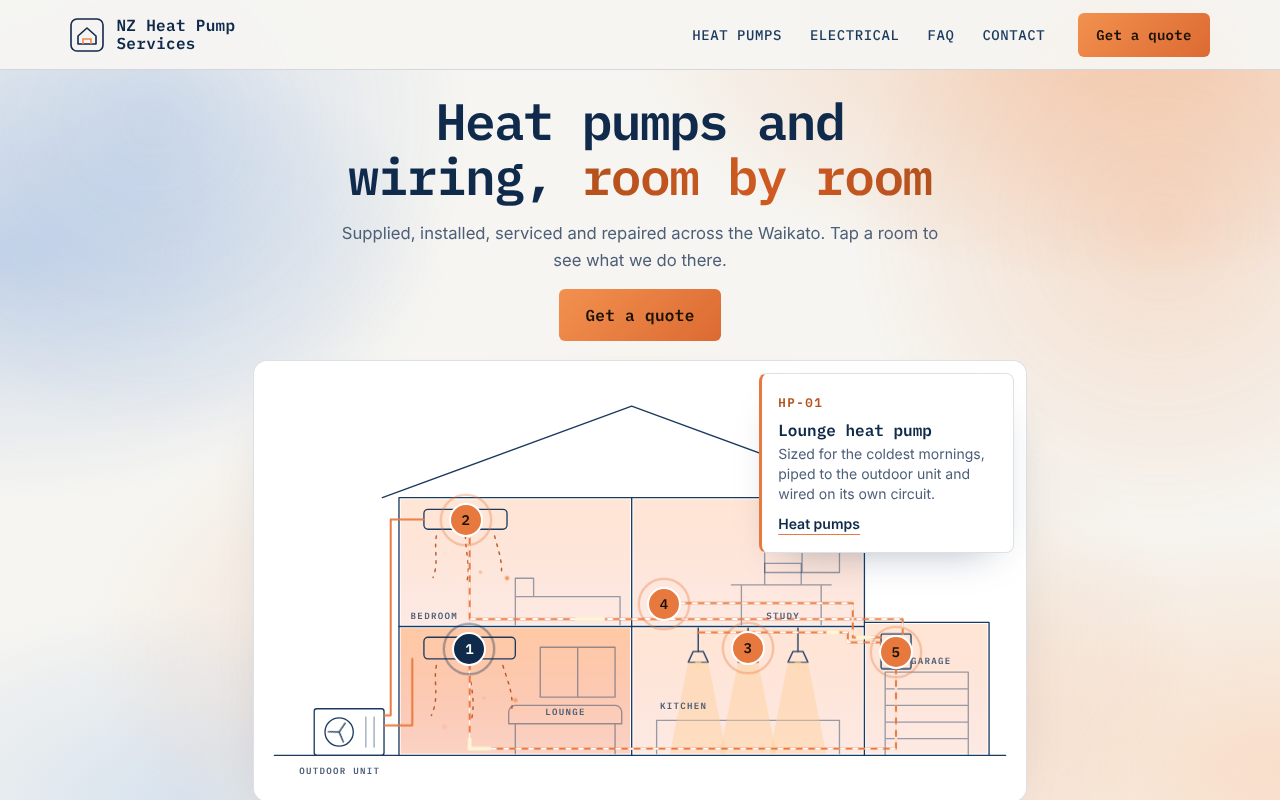
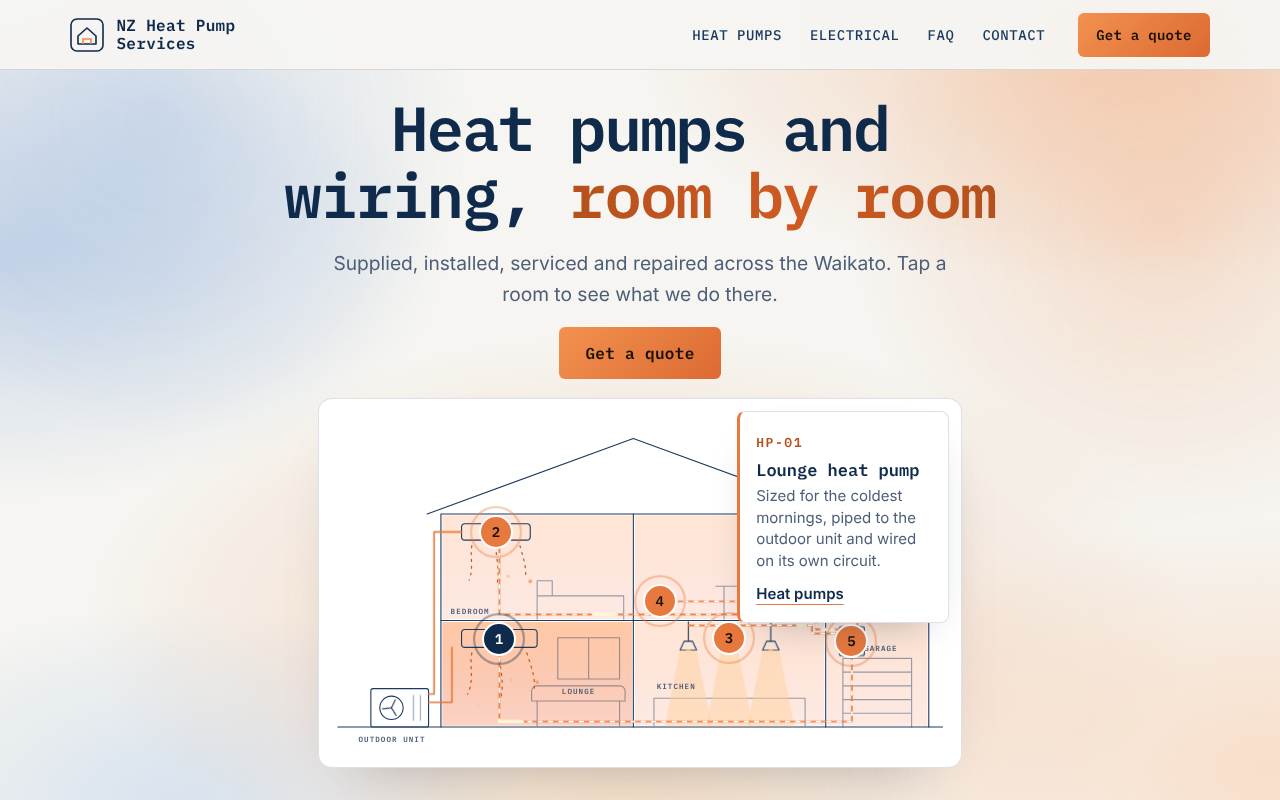
Blueprint: larger, clearer type scale
Body 18px, card, step and callout text 15 to 16.5px, larger section and
hero headings with balanced lines. The house drawing sizes to the space
left so the hero still fits laptop screens.

Claude-Session: https://claude.ai/code/session_01JyjoGFhd642tYoC75pYTfu

Changed region(s): [[0.1875, 0.125, 0.8125, 1.0], [0.1875, 0.4375, 0.2188, 0.4688]]

diff --git a/designs/03-blueprint/index.html b/designs/03-blueprint/index.html
@@ -22,19 +22,19 @@
 }
 *,*::before,*::after{box-sizing:border-box}
 html{scroll-padding-top:calc(var(--hh) + 16px);-webkit-text-size-adjust:100%;color-scheme:light}
-body{margin:0;background:var(--paper);color:var(--ink);font:400 17px/1.6 var(--sans);-webkit-font-smoothing:antialiased}
+body{margin:0;background:var(--paper);color:var(--ink);font:400 18px/1.65 var(--sans);-webkit-font-smoothing:antialiased}
 img,svg{display:block;max-width:100%}
 a{color:inherit}
 p{margin:0 0 1em}
 h1,h2,h3{font-family:var(--mono);font-weight:600;letter-spacing:-.03em;line-height:1.08;margin:0 0 .5em}
-h2{font-size:clamp(30px,3.8vw,50px)}
-h3{font-size:clamp(18px,1.5vw,21px);letter-spacing:-.01em;line-height:1.25}
+h2{font-size:clamp(32px,4.4vw,58px);text-wrap:balance}
+h3{font-size:clamp(19px,1.7vw,23px);letter-spacing:-.01em;line-height:1.25}
 :focus-visible{outline:2px solid var(--warm);outline-offset:3px}
 .wrap{max-width:1220px;margin:0 auto;padding:0 var(--pad)}
 .skip{position:absolute;left:12px;top:-60px;background:#fff;color:#000;padding:12px 16px;z-index:100}
 .skip:focus{top:12px}
-.lede{font-size:clamp(16px,1.3vw,19px);color:var(--muted);max-width:620px;margin:0 auto 1.2em}
-.code{font:600 12.5px/1 var(--mono);letter-spacing:.12em;text-transform:uppercase;color:var(--warm)}
+.lede{font-size:clamp(17.5px,1.5vw,21px);color:var(--muted);max-width:620px;margin:0 auto 1.2em}
+.code{font:600 13px/1 var(--mono);letter-spacing:.12em;text-transform:uppercase;color:var(--warm)}
 [data-need]:not(.has){display:none!important}
 .btn{position:relative;overflow:hidden;display:inline-flex;align-items:center;justify-content:center;min-height:52px;padding:0 26px;border-radius:6px;background:var(--cu);color:var(--cu-ink);font:600 16px/1 var(--mono);letter-spacing:.02em;text-decoration:none;border:0;cursor:pointer}
 .btn::after{content:"";position:absolute;inset:0;background:linear-gradient(100deg,transparent 30%,rgba(255,255,255,.4) 50%,transparent 70%);transform:translateX(-120%);transition:transform 1.1s var(--ease)}
@@ -65,10 +65,10 @@ h3{font-size:clamp(18px,1.5vw,21px);letter-spacing:-.01em;line-height:1.25}
 
 /* hero: the house drawing */
 .hero{min-height:min(100svh,1000px);padding:calc(var(--hh) + clamp(18px,3vh,40px)) 0 30px;text-align:center}
-.hero h1{font-size:clamp(2rem,min(4.2vw,6.4vh),4rem);max-width:22ch;margin:0 auto .3em;text-wrap:balance}
+.hero h1{font-size:clamp(2.35rem,min(5vw,7.8vh),4.6rem);max-width:22ch;margin:0 auto .3em;text-wrap:balance}
 .hero h1 span{color:var(--warm)}
 .hero .lede{margin-bottom:16px}
-.sheet{position:relative;margin:clamp(14px,2.4vh,28px) auto 0;width:min(100%,1080px,calc((100svh - var(--hh) - 300px) * 1.8));border:1px solid var(--line);border-radius:14px;background:var(--card);padding:12px;box-shadow:0 30px 60px -40px rgba(15,42,74,.35)}
+.sheet{position:relative;margin:clamp(14px,2.4vh,28px) auto 0;width:min(100%,1080px,calc((100svh - var(--hh) - 372px) * 1.8));border:1px solid var(--line);border-radius:14px;background:var(--card);padding:12px;box-shadow:0 30px 60px -40px rgba(15,42,74,.35)}
 .sheet svg{width:100%;height:auto}
 .cv{position:relative}
 .dw .l{fill:none;stroke:var(--chalk);stroke-width:1.6;stroke-linecap:round;stroke-linejoin:round}
@@ -100,9 +100,9 @@ h3{font-size:clamp(18px,1.5vw,21px);letter-spacing:-.01em;line-height:1.25}
 @keyframes ping{0%{opacity:.8;transform:scale(.7)}100%{opacity:0;transform:scale(1.5)}}
 .callout{position:absolute;right:12px;top:12px;width:min(300px,33%);text-align:left;background:var(--card);border:1px solid var(--line);border-left:3px solid var(--cu);border-radius:8px;box-shadow:0 18px 40px -24px rgba(15,42,74,.4);padding:14px 16px;opacity:0;transform:translateY(6px);transition:opacity .6s var(--ease),transform .6s var(--ease)}
 .ready .callout{opacity:1;transform:none}
-.callout .co-h{margin:4px 0 4px;font:600 16px/1.25 var(--mono);color:var(--ink)}
-.callout p{margin:0 0 6px;color:var(--muted);font-size:14px;line-height:1.45}
-.callout a{font-size:14px}
+.callout .co-h{margin:4px 0 4px;font:600 17px/1.25 var(--mono);color:var(--ink)}
+.callout p{margin:0 0 6px;color:var(--muted);font-size:15px;line-height:1.45}
+.callout a{font-size:15px}
 @media (max-width:760px){.sheet{width:100%}.callout{position:static;width:auto;margin-top:12px}.hs{width:28px;height:28px;margin:-14px 0 0 -14px;font-size:12px}}
 @media (prefers-reduced-motion:reduce){.hs,.callout{transform:none!important;opacity:1!important}}
 
@@ -118,7 +118,7 @@ h3{font-size:clamp(18px,1.5vw,21px);letter-spacing:-.01em;line-height:1.25}
 .item:nth-child(3n){border-right:0}
 .item:nth-last-child(-n+3){border-bottom:0}
 .item .code{display:inline-block;padding:6px 9px;border:1px solid rgba(255,176,112,.45);border-radius:4px;margin-bottom:14px}
-.item p{color:var(--muted);margin:0 auto 12px;max-width:30ch;font-size:15.5px}
+.item p{color:var(--muted);margin:0 auto 12px;max-width:32ch;font-size:16.5px}
 @media (max-width:900px){.sched{grid-template-columns:1fr 1fr}.item:nth-child(3n){border-right:1px solid var(--line)}.item:nth-child(2n){border-right:0}.item:nth-last-child(-n+3){border-bottom:1px solid var(--line)}.item:nth-last-child(-n+2){border-bottom:0}}
 @media (max-width:600px){.sched{grid-template-columns:1fr}.item{border-right:0!important;border-bottom:1px solid var(--line)!important}.item:last-child{border-bottom:0!important}}
 
@@ -141,7 +141,7 @@ h3{font-size:clamp(18px,1.5vw,21px);letter-spacing:-.01em;line-height:1.25}
 .gauge{width:min(240px,80%);margin:0 0 14px}
 #arc{transition:stroke-dashoffset 1.2s var(--ease)}
 #needle{transform-origin:120px 120px;transition:transform 1.2s var(--ease)}
-.out p{color:var(--muted);font-size:15px;max-width:34ch}
+.out p{color:var(--muted);font-size:16.5px;max-width:34ch}
 @media (max-width:860px){.sizer{grid-template-columns:1fr}.sz{border-right:0;border-bottom:1px solid var(--line)}}
 
 .steps{list-style:none;padding:0;margin:0 auto;max-width:1060px;display:grid;grid-template-columns:repeat(4,1fr);gap:0;counter-reset:s;position:relative}
@@ -149,7 +149,7 @@ h3{font-size:clamp(18px,1.5vw,21px);letter-spacing:-.01em;line-height:1.25}
 .steps.in::before{transform:none}
 .steps li{text-align:center;padding:0 14px}
 .steps .n{position:relative;z-index:1;width:68px;height:68px;margin:0 auto 18px;border-radius:50%;border:2px solid var(--ink);background:var(--paper);display:grid;place-items:center;font:600 20px var(--mono)}
-.steps li p{color:var(--muted);font-size:15px;margin:0}
+.steps li p{color:var(--muted);font-size:16.5px;margin:0}
 @media (max-width:900px){.steps{grid-template-columns:1fr 1fr;row-gap:36px}.steps::before{display:none}}
 @media (max-width:560px){.steps{grid-template-columns:1fr}}
 
@@ -184,14 +184,14 @@ h3{font-size:clamp(18px,1.5vw,21px);letter-spacing:-.01em;line-height:1.25}
 
 .cta{text-align:center;padding:clamp(80px,10vw,130px) var(--pad);background:linear-gradient(180deg,transparent,rgba(240,138,75,.12))}
 .cta h2{font-size:clamp(36px,5vw,68px);max-width:18ch;margin:0 auto .35em}
-.ftr{--line:rgba(219,233,255,.16);background:var(--deep);color:#a9bfdc;padding:clamp(56px,7vw,90px) 0 calc(28px + env(safe-area-inset-bottom));text-align:center;font-size:15px;border-top:1px solid var(--line)}
+.ftr{--line:rgba(219,233,255,.16);background:var(--deep);color:#a9bfdc;padding:clamp(56px,7vw,90px) 0 calc(28px + env(safe-area-inset-bottom));text-align:center;font-size:16px;border-top:1px solid var(--line)}
 .ftr .brand{justify-content:center;margin:0 0 14px;color:#fff}
 .ftr .cols{display:grid;grid-template-columns:repeat(3,1fr);max-width:760px;margin:34px auto;gap:24px}
 .ftr h2{font:600 12px/1 var(--mono);letter-spacing:.16em;text-transform:uppercase;color:#7f96b6;margin:0 0 12px}
 .ftr ul{list-style:none;padding:0;margin:0}
 .ftr li a{display:inline-block;padding:6px 0;text-decoration:none;color:#dbe9ff}
 .ftr li a:hover{color:#ffb070}
-.ftr .legal{border-top:1px solid var(--line);padding-top:22px;font-size:14px}
+.ftr .legal{border-top:1px solid var(--line);padding-top:22px;font-size:15px}
 .ftr .legal p{margin:.3em 0}
 @media (max-width:600px){.ftr .cols{grid-template-columns:1fr 1fr}.ftr .cols>div:last-child{grid-column:1/-1}}
 .qbar{display:none}
